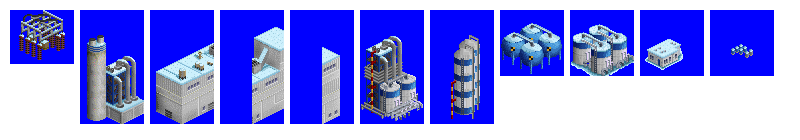
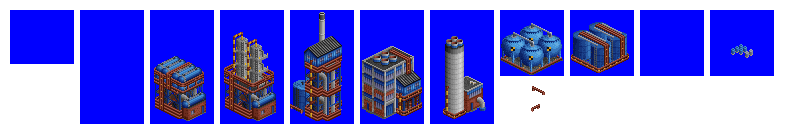
Change: improved layout #2 for Chemical Plant

diff --git a/src/industries/chemical_plant.py b/src/industries/chemical_plant.py
@@ -235,14 +235,19 @@ industry.add_industry_layout(
 industry.add_industry_layout(
     id = 'chemical_plant_industry_layout_2',
     layout = [(0, 1, 'chemical_plant_tile_1', 'chemical_plant_spritelayout_drop_tower_and_thin_chimney'),
-              (1, 0, 'chemical_plant_tile_1', 'chemical_plant_spritelayout_vertical_tanks'),
+              (0, 2, 'chemical_plant_tile_1', 'chemical_plant_spritelayout_horizontal_tanks'),
+              (0, 3, 'chemical_plant_tile_2', 'chemical_plant_spritelayout_fat_chimney'),
+              (0, 4, 'chemical_plant_tile_2', 'chemical_plant_spritelayout_fat_chimney'),
+              (1, 0, 'chemical_plant_tile_1', 'chemical_plant_spritelayout_horizontal_tanks'),
               (1, 1, 'chemical_plant_tile_1', 'chemical_plant_spritelayout_frac_columns'),
-              (1, 2, 'chemical_plant_tile_1', 'chemical_plant_spritelayout_spherical_tanks'),
-              (1, 3, 'chemical_plant_tile_2', 'chemical_plant_spritelayout_fat_chimney'),
-              (2, 0, 'chemical_plant_tile_1', 'chemical_plant_spritelayout_barrels'),
-              (2, 1, 'chemical_plant_tile_1', 'chemical_plant_spritelayout_horizontal_tanks'),
-              (2, 2, 'chemical_plant_tile_1', 'chemical_plant_spritelayout_horizontal_tanks'),
-              (2, 3, 'chemical_plant_tile_2', 'chemical_plant_spritelayout_large_building'),
+              (1, 2, 'chemical_plant_tile_1', 'chemical_plant_spritelayout_horizontal_tanks'),
+              (1, 3, 'chemical_plant_tile_2', 'chemical_plant_spritelayout_large_building'),
+              (1, 4, 'chemical_plant_tile_2', 'chemical_plant_spritelayout_large_building'),
+              (2, 0, 'chemical_plant_tile_1', 'chemical_plant_spritelayout_vertical_tanks'),
+              (2, 1, 'chemical_plant_tile_1', 'chemical_plant_spritelayout_vertical_tanks'),
+              (2, 2, 'chemical_plant_tile_1', 'chemical_plant_spritelayout_barrels'),
+              (2, 3, 'chemical_plant_tile_1', 'chemical_plant_spritelayout_spherical_tanks'),
+              (2, 4, 'chemical_plant_tile_1', 'chemical_plant_spritelayout_spherical_tanks'),
     ]
 )
 industry.add_industry_layout(
